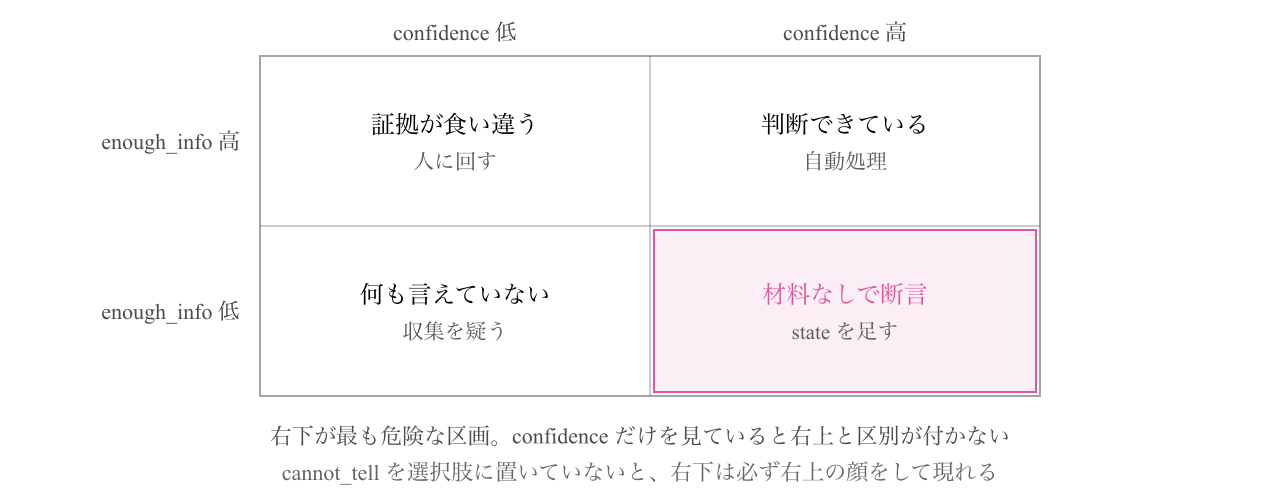
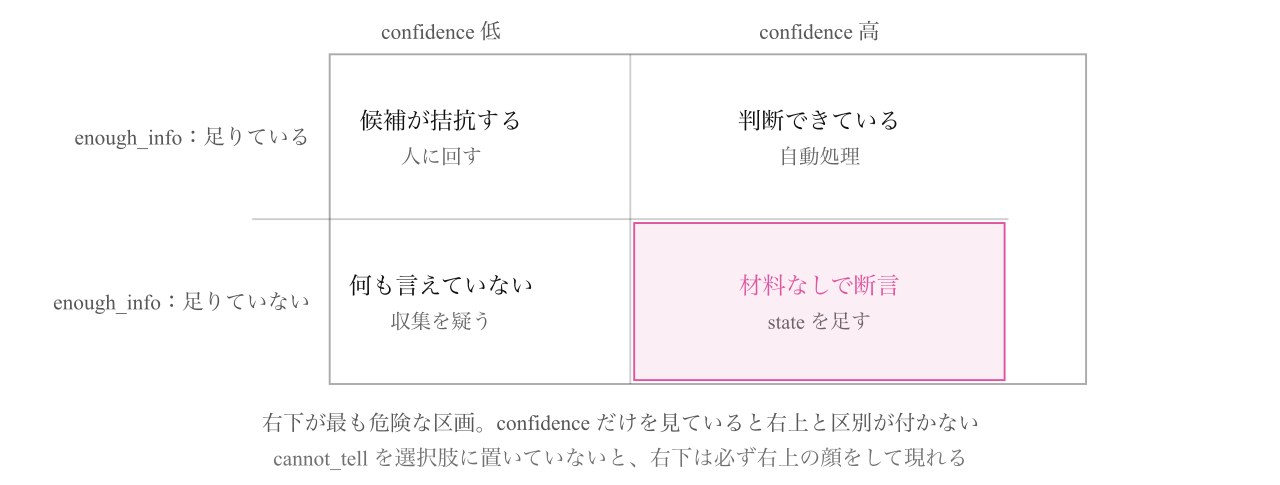
draft: measure the language comparison in the triage domain itself
The previous claim rested on a fictional-currency Noul, a different domain.
Translating the four issue-triage cells and their instructions and criteria:
Choice and Noul agree within 0.04 (inside rerun jitter), but Score moves by up
to 0.54 -- translating ordered level descriptions does not preserve the scale.

Also fix a stale label in the summary map: the low-confidence, enough-material
quadrant is "candidates tie", not "evidence conflicts".

diff --git a/articles/jev-confidence-dispatch.md b/articles/jev-confidence-dispatch.md
@@ -370,7 +370,20 @@ recent_runs: [{"commit": "9b3e1a", "result": "pass"}, ... ,
 
 社外からの報告を対象にしないのは、`state` 経由の誘導という別の問題が絡み、本記事ではそれを測っていないためです。
 
-日本語のまま投げて構いません。[公式ドキュメント](https://docs.typesafe.ai/models#language-support)は英語が第一言語だと断っていますが、同じ判断を日英で測った実測ではほぼ一致しました（0.50 と 0.52）。ただしこれは別ドメイン（架空の通貨についての Noul）での比較で、トリアージそのものを日英で対照したわけではありません。
+日本語のまま投げて構いません。[公式ドキュメント](https://docs.typesafe.ai/models#language-support)は英語が第一言語だと断っているので、上の四つの報告を英訳し、`instructions` と `criteria` も訳して測り直しました。
+
+| | team | team の confidence | has_repro | enough_info | urgency |
+|---|---|---|---|---|---|
+| 手順あり | app / app | 1.00 / 1.00 | 0.88 / 0.85 | 0.32 / 0.31 | 1.20 / **1.46** |
+| 手順なし | app / app | 0.93 / 0.96 | 0.06 / 0.05 | 0.24 / 0.26 | 1.40 / 1.36 |
+| 「動きません」 | cannot_tell / cannot_tell | 0.99 / 1.00 | 0.05 / 0.03 | 0.09 / 0.05 | 1.51 / **0.97** |
+| 手順が途中 | app / app | 0.98 / 0.99 | 0.27 / 0.23 | 0.23 / 0.24 | 1.29 / 1.27 |
+
+（左が日本語、右が英語）
+
+**Choice と Noul はほぼ一致しました。** 担当チームは四件とも同じ答えで、`confidence` の差は最大 0.03、`has_repro` と `enough_info` の差は最大 0.04 です。同一入力を投げ直したときのばらつき（±0.03）と同じ範囲なので、言語差は検出できません。振り分けの設計はそのまま日本語で通せます。
+
+**一方 Score はずれます。** `urgency` は「動きません」だけの報告で 1.51 と 0.97、0.54 も違いました。手順ありの報告でも `confidence` が 0.70 と 0.30 です。段階の説明文（「様子を見てよい」「今週中に対応する」）を訳すと、語の含む切迫感まで同じにはならないからだと思われます。**順序のある段階を訳したときは、閾値を測り直してください。**
 
 質問は四つです。
 
